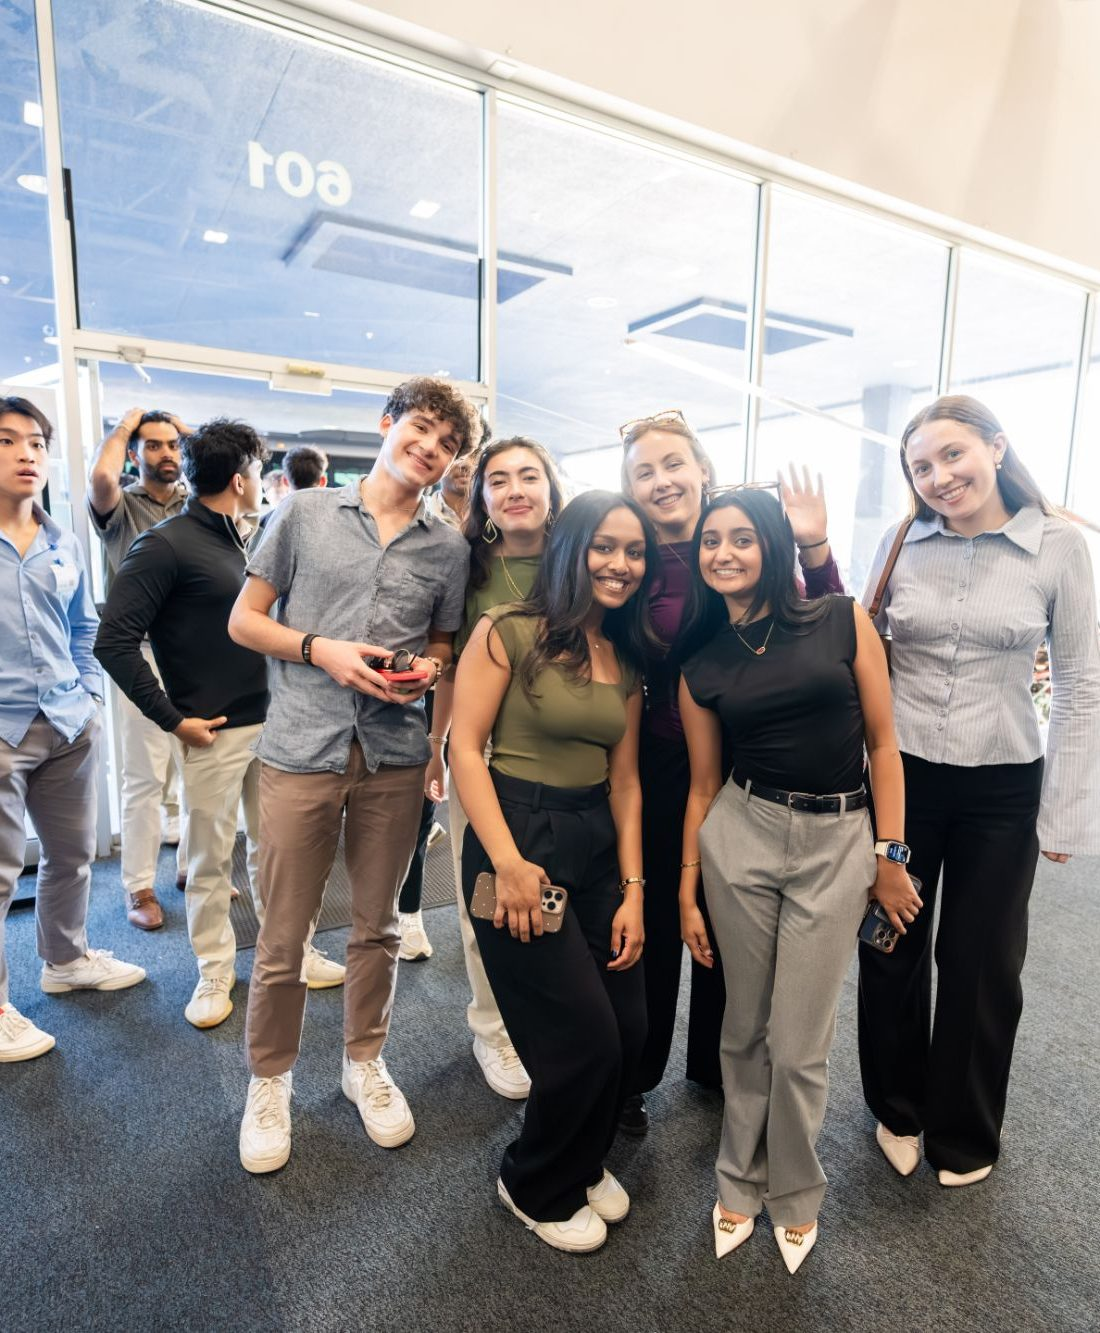
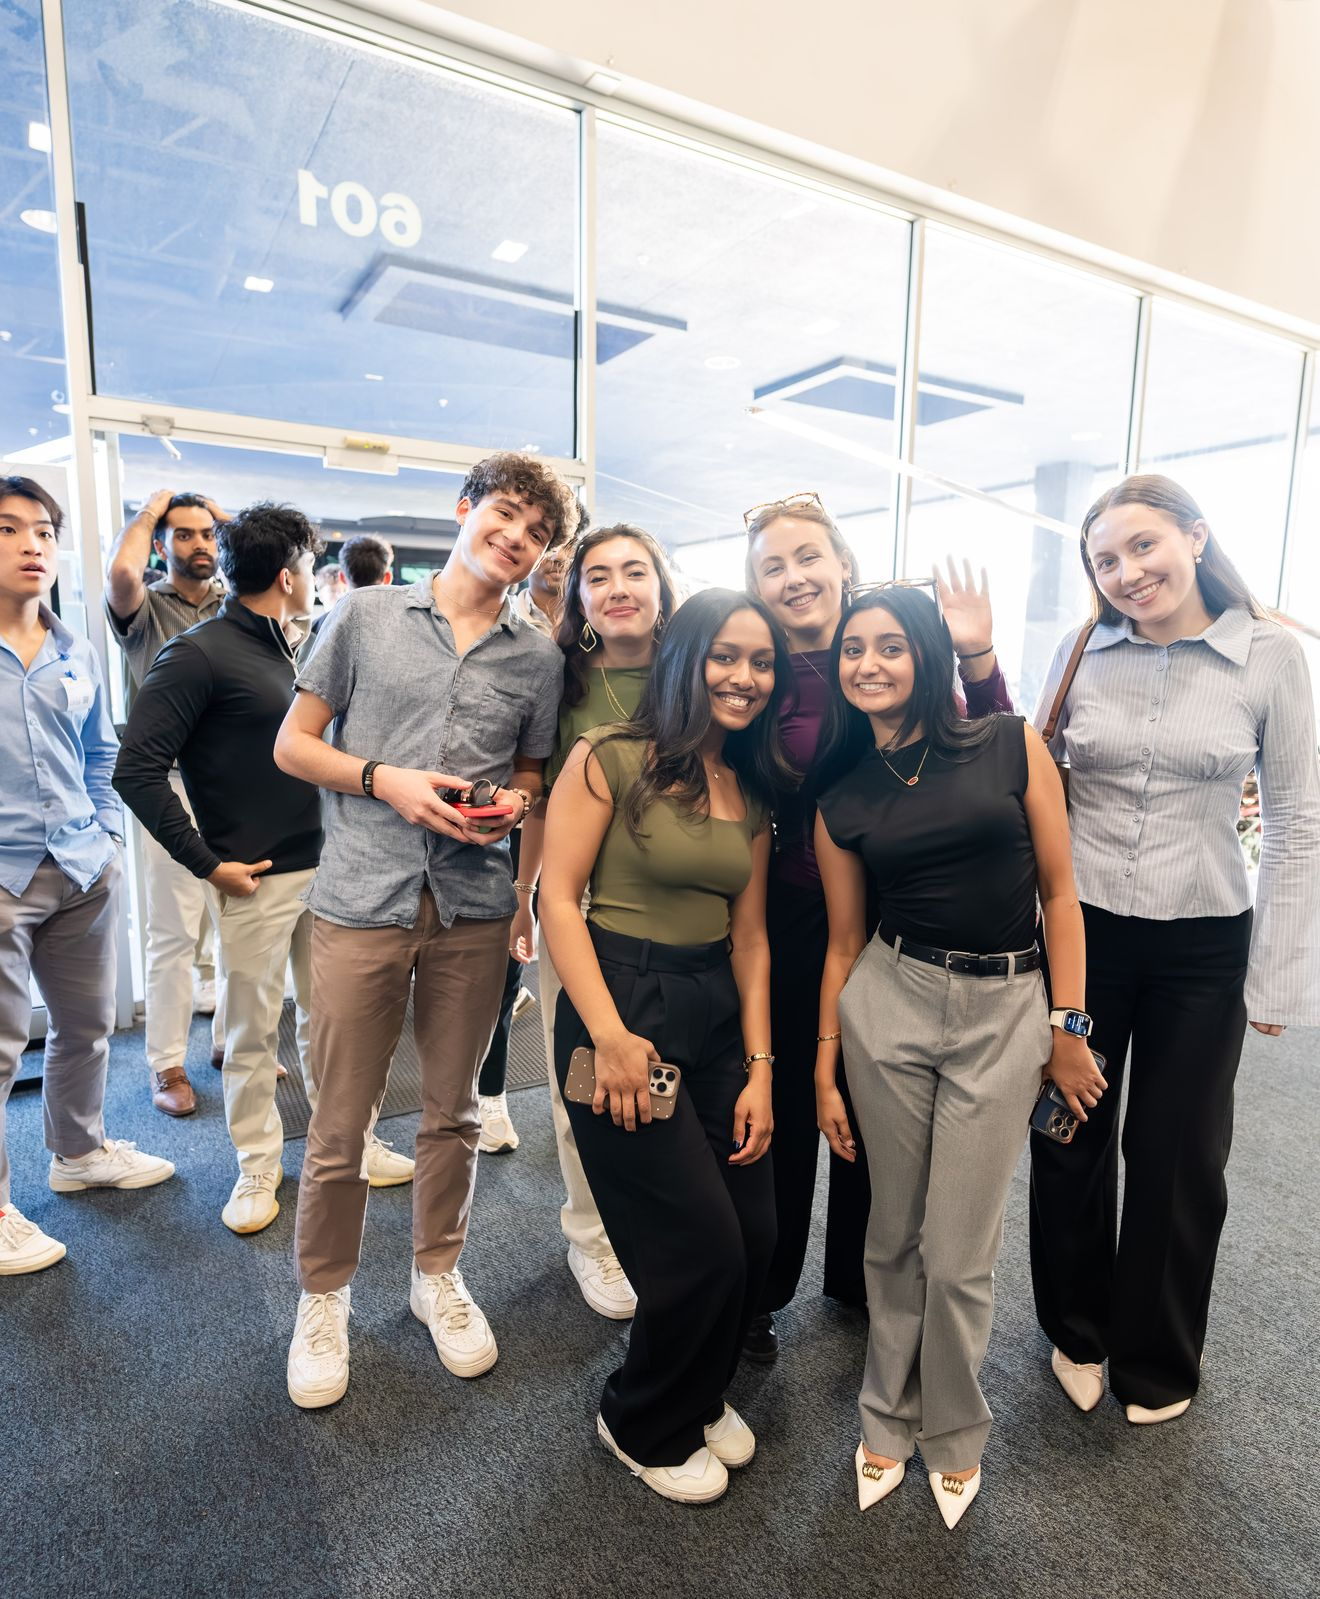
Sharpen the homepage hero and keep heads in frame (#92)

diff --git a/src/components/general/HeroPrefetch.tsx b/src/components/general/HeroPrefetch.tsx
@@ -8,20 +8,22 @@ import aboutImg from "../../../public/about.jpg";
 import alumniImg from "../../../public/alumni.jpg";
 import recruitmentWelcomeImg from "../../../public/recruitment/welcome.jpeg";
 
+// The homepage swaps crops at 800px (Welcome.tsx's <picture>), so only the
+// one this screen would actually show is worth fetching.
 const heroes = [
-  welcomeImg,
-  welcomeVerticalImg,
-  aboutImg,
-  alumniImg,
-  recruitmentWelcomeImg,
-].map(
-  (src) =>
-    getImageProps({ src, alt: "", sizes: "100vw" }).props as {
-      src: string;
-      srcSet?: string;
-      sizes?: string;
-    },
-);
+  { src: welcomeImg, media: "not all and (max-width:800px)" },
+  { src: welcomeVerticalImg, media: "(max-width:800px)" },
+  { src: aboutImg },
+  { src: alumniImg },
+  { src: recruitmentWelcomeImg },
+].map(({ src, media }) => ({
+  media,
+  ...(getImageProps({ src, alt: "", sizes: "100vw" }).props as {
+    src: string;
+    srcSet?: string;
+    sizes?: string;
+  }),
+}));
 
 /**
  * Warms the browser cache for every page banner once the current page has
@@ -34,7 +36,8 @@ export default function HeroPrefetch() {
 
     const warm = () => {
       if (cancelled) return;
-      heroes.forEach(({ src, srcSet, sizes }) => {
+      heroes.forEach(({ media, src, srcSet, sizes }) => {
+        if (media && !window.matchMedia(media).matches) return;
         const img = new window.Image();
         if (sizes) img.sizes = sizes;
         if (srcSet) img.srcset = srcSet;

diff --git a/src/components/home/Welcome.tsx b/src/components/home/Welcome.tsx
@@ -13,6 +13,10 @@ gsap.registerPlugin(useGSAP);
 
 const heroAlt = "IBE Honors Program students together at a program event";
 
+// Faces sit in the upper third of the photo, so screens wider than the crop
+// trim mostly floor instead of heads.
+const HERO_FOCUS = "50% 30%";
+
 // Optimized srcsets for both art-directed crops; the raw <source> path used
 // to serve the full unoptimized JPEG on mobile.
 const { props: desktopImg } = getImageProps({
@@ -70,7 +74,7 @@ export default function Welcome() {
           // while the photo streams in
           backgroundImage: `url(${welcomeImg.blurDataURL})`,
           backgroundSize: "cover",
-          backgroundPosition: "center",
+          backgroundPosition: HERO_FOCUS,
           "@media (max-width:800px)": {
             backgroundImage: `url(${welcomeVerticalImg.blurDataURL})`,
           },
@@ -84,6 +88,7 @@ export default function Welcome() {
           alt={heroAlt}
           style={{
             objectFit: "cover",
+            objectPosition: HERO_FOCUS,
             pointerEvents: "none",
             width: "100%",
             height: "100%",
